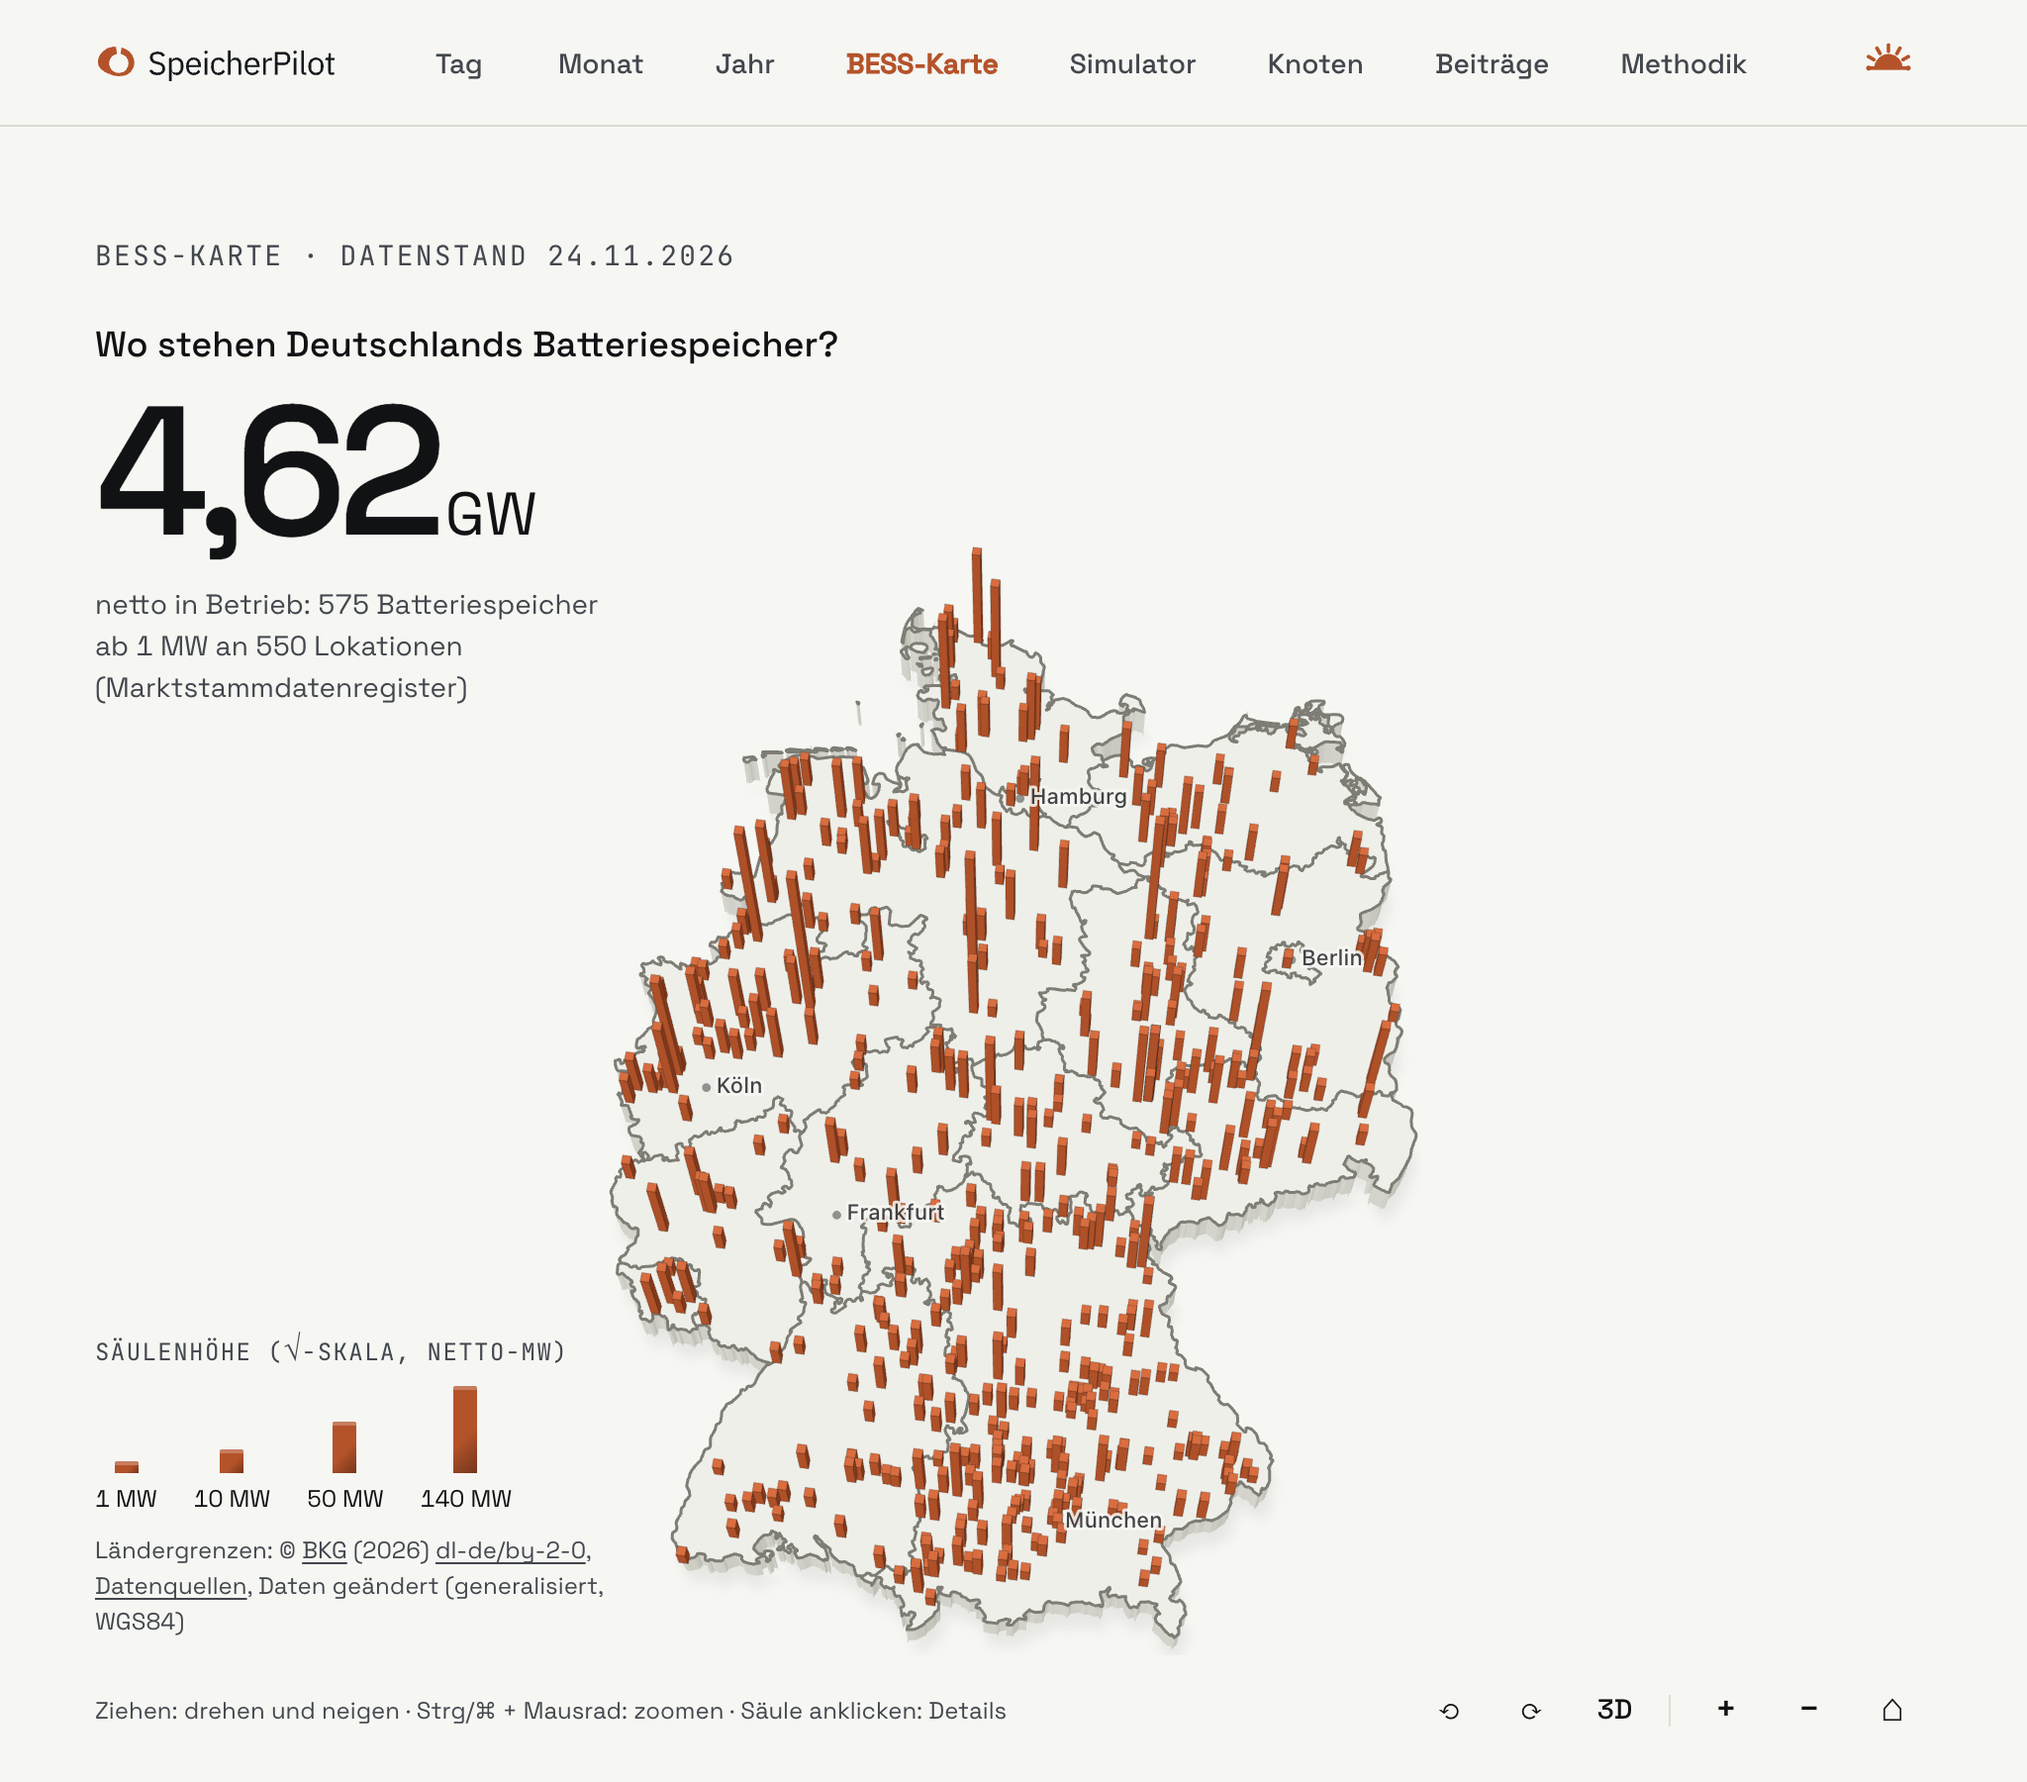
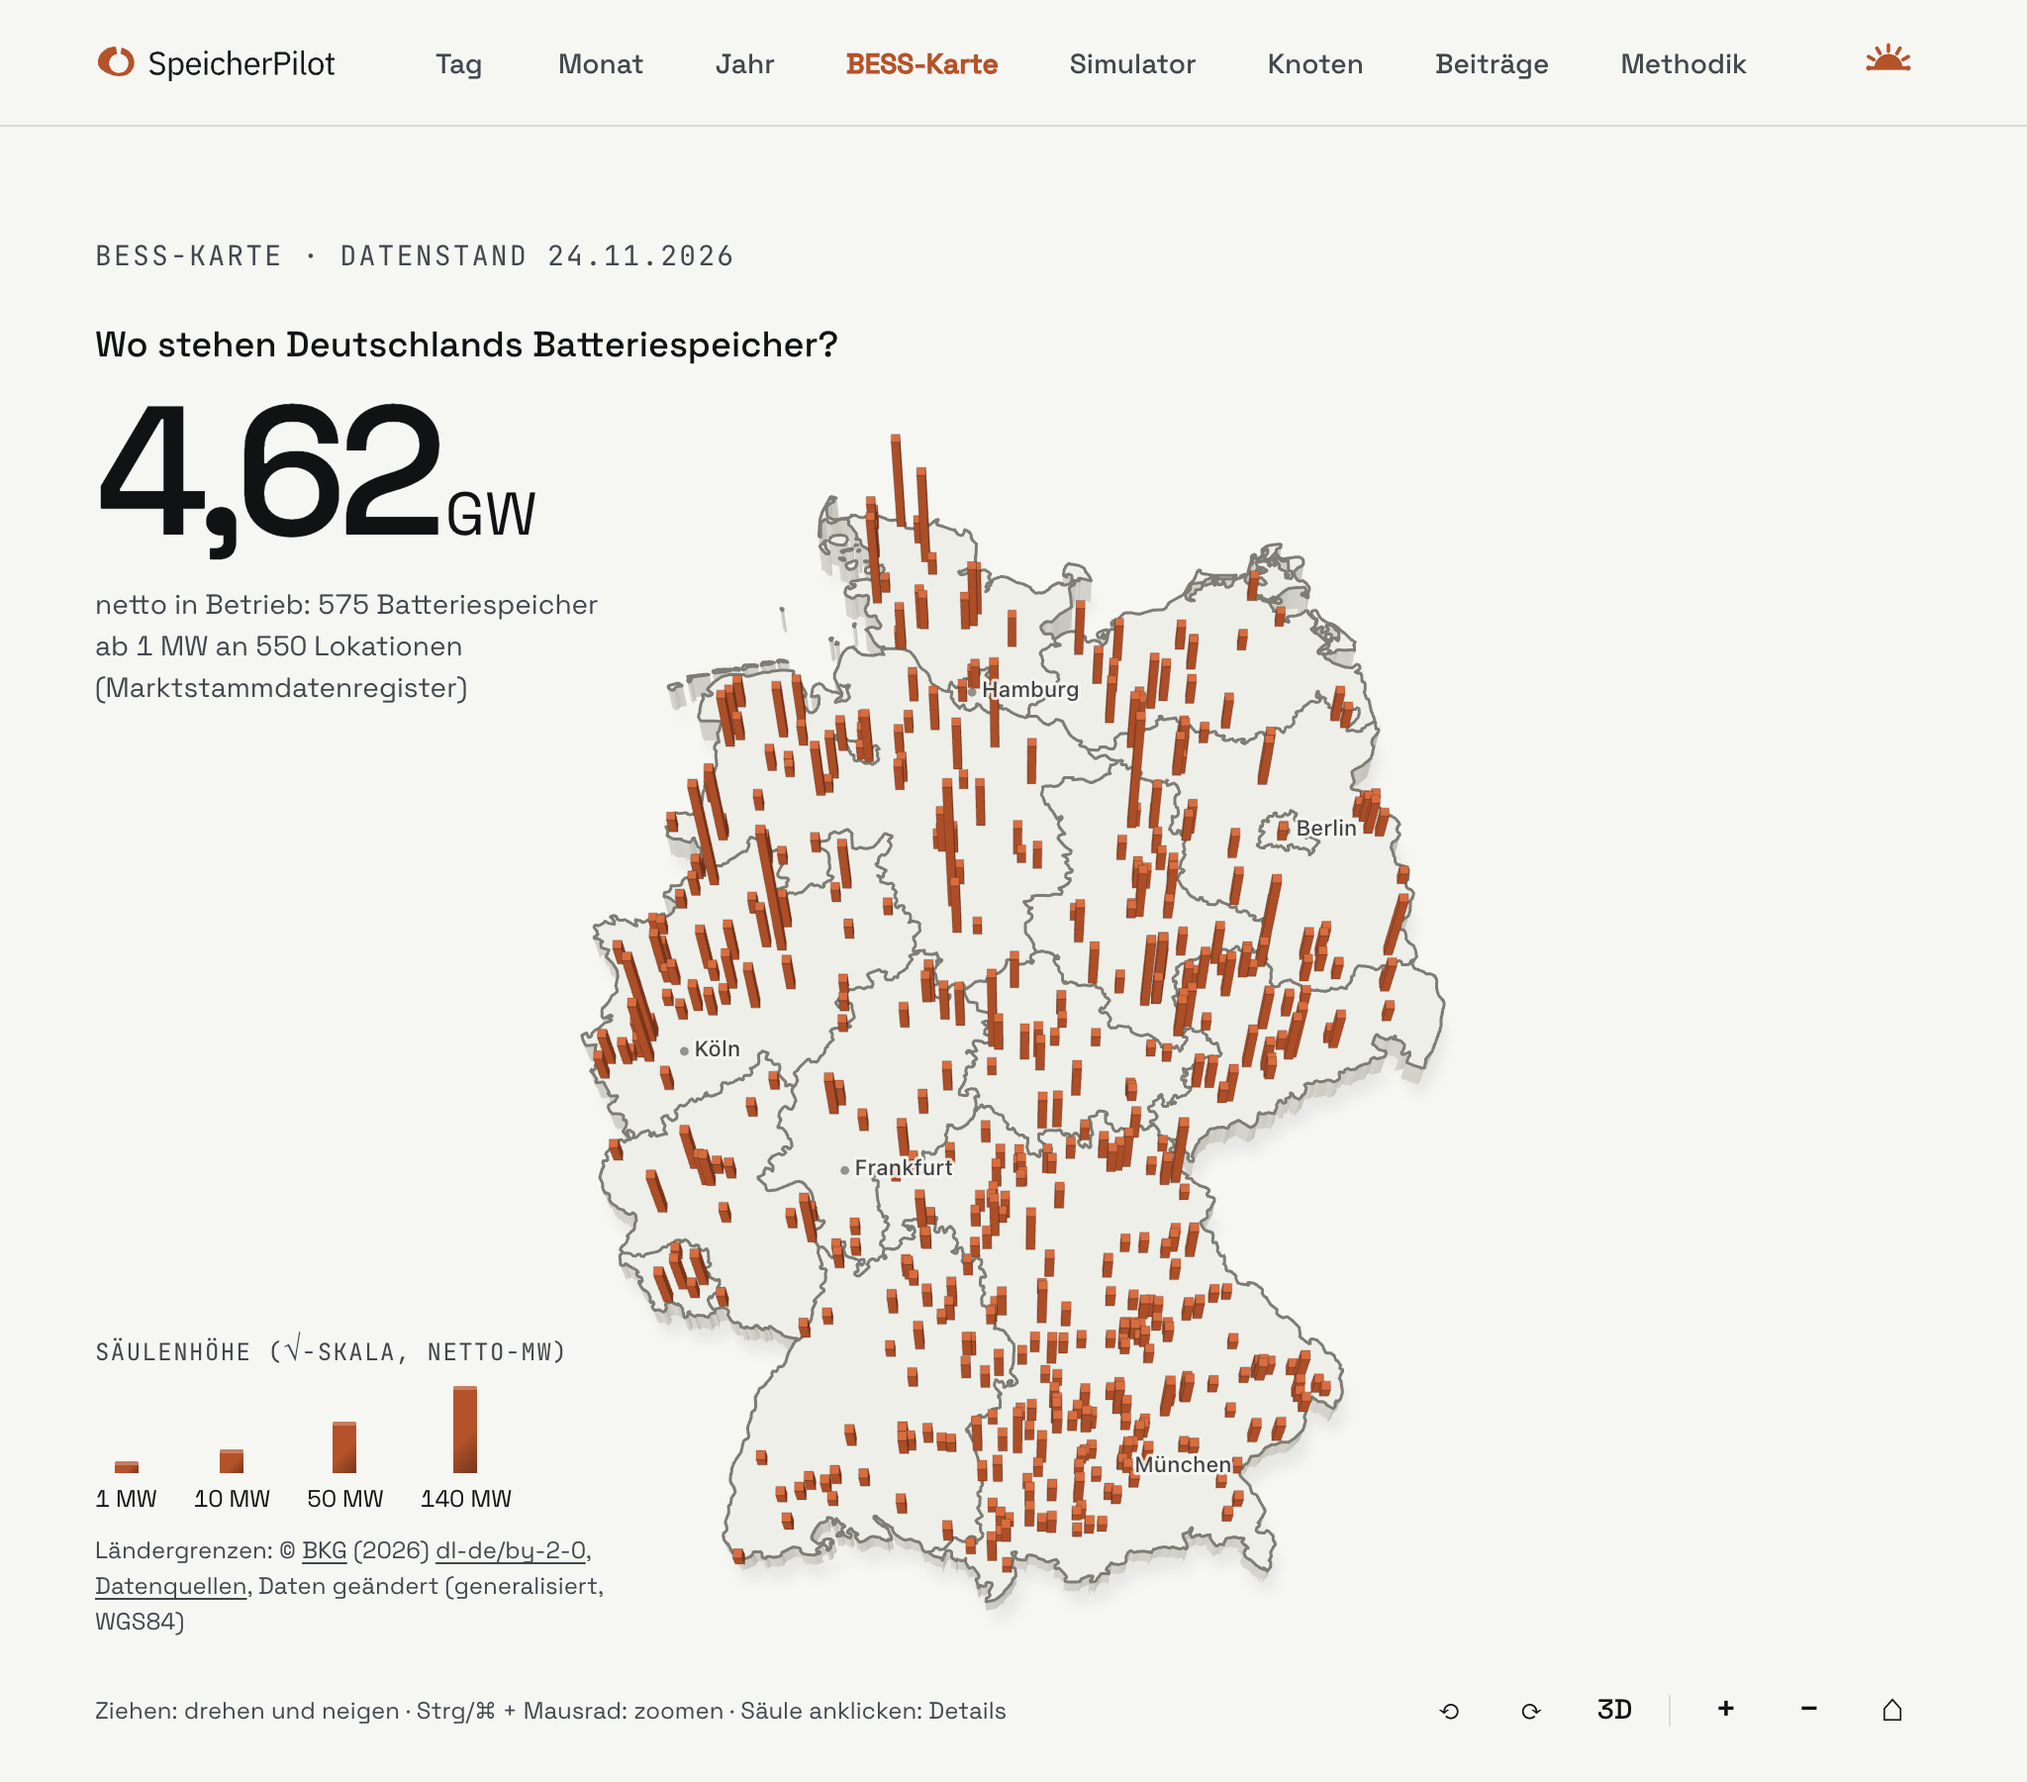
fix(netzbetreiber): Desktop-Startkamera Norden oben, mittig und etwas größer
DEFAULT_CAMERA_3D jetzt yaw 0, Neigung 18°, Zoom 1,08; Reset/⌂ führt auf dieselbe Ansicht. Mobil unverändert.

Changed region(s): [[0.2812, 0.2489, 0.7188, 0.9333]]

diff --git a/components/bess-netzbetreiber/BessKarteCanvas3d.tsx b/components/bess-netzbetreiber/BessKarteCanvas3d.tsx
@@ -12,6 +12,7 @@ import {
   type Camera3d,
   clampCamera3d,
   createProjectionParams3d,
+  DEFAULT_CAMERA_3D,
   geoToPlane,
   panCameraBy,
   type Point2d,
@@ -700,7 +701,7 @@ export function BessKarteCanvas3d({
       startCam: camera,
       moved: false,
       // Ohne Zoom dreht Ziehen die Karte; hineingezoomt verschiebt es sie (Shift dreht immer).
-      pan: camera.zoom > 1.05 && !e.shiftKey,
+      pan: camera.zoom > DEFAULT_CAMERA_3D.zoom + 0.05 && !e.shiftKey,
     };
   }
 
@@ -880,8 +881,8 @@ export function BessKarteCanvas3d({
         {overlay ? (
           <div
             className={styles.canvasHeroOverlay}
-            style={{ opacity: camera.zoom > 1.15 ? 0 : 1 }}
-            aria-hidden={camera.zoom > 1.15 ? true : undefined}
+            style={{ opacity: camera.zoom > DEFAULT_CAMERA_3D.zoom + 0.15 ? 0 : 1 }}
+            aria-hidden={camera.zoom > DEFAULT_CAMERA_3D.zoom + 0.15 ? true : undefined}
           >
             {overlay}
           </div>
@@ -994,7 +995,7 @@ export function BessKarteCanvas3d({
       ) : (
         <div className={styles.canvasDesktopBar}>
           <span className={`${styles.canvasHint} num`}>
-            {camera.zoom > 1.05
+            {camera.zoom > DEFAULT_CAMERA_3D.zoom + 0.05
               ? "Ziehen: verschieben · Shift + Ziehen: drehen · Säule anklicken: Details"
               : "Ziehen: drehen und neigen · Strg/⌘ + Mausrad: zoomen · Säule anklicken: Details"}
           </span>

diff --git a/lib/bessKarte3d/logic.test.ts b/lib/bessKarte3d/logic.test.ts
@@ -338,6 +338,6 @@ describe("mobile projection fit (390-Karte)", () => {
     expect(a.cx).toBeCloseTo(b.cx, 8);
     expect(a.cy).toBeCloseTo(b.cy, 8);
     expect(a.cy).toBeCloseTo(800 * 0.56, 8);
-    expect(a.scale).toBeCloseTo(Math.min(1280, 800) * 0.47, 8);
+    expect(a.scale).toBeCloseTo(Math.min(1280, 800) * 0.47 * pr.DEFAULT_CAMERA_3D.zoom, 8);
   });
 });

diff --git a/lib/bessKarte3d/projection3d.ts b/lib/bessKarte3d/projection3d.ts
@@ -22,11 +22,11 @@ export const ZOOM_MIN = 0.75;
 export const ZOOM_MAX = 14;
 
 export const DEFAULT_CAMERA_3D: Camera3d = {
-  yawDeg: -8,
-  tiltDeg: 22,
-  zoom: 1,
+  yawDeg: 0,
+  tiltDeg: 18,
+  zoom: 1.08,
   panX: 0,
-  panY: 0,
+  panY: -0.13,
 };
 
 /** Mobil: fast Draufsicht, Norden oben, Neigung unter 20°. */

diff --git a/PR_BESCHREIBUNG.md b/PR_BESCHREIBUNG.md
@@ -46,6 +46,14 @@
   - `netzbetreiber-1024-controls.png` (Desktop 1024 Fußzeile, Filterzeile & Abspielen)
   - `netzbetreiber-390-viewport.png` (Mobil 390 Viewport mit flacher Kreis-Karte)
   - `redispatch-1280.png` & `redispatch-1024.png` (aktiver EE-Redispatch-Toggle mit vollständig sichtbarer Legende inkl. GWh-Einheit und BMWE-Quelle)
+  - `start-1280-hell.png` & `start-1280-dunkel.png` (neue Desktop-Startkamera in Hell- und Dunkelmodus bei 1280 px)
+
+---
+
+## Zusatz Startkamera Desktop (`DEFAULT_CAMERA_3D`)
+- **Neue Desktop-Startkamera (`lib/bessKarte3d/projection3d.ts`):** `DEFAULT_CAMERA_3D = { yawDeg: 0, tiltDeg: 18, zoom: 1.08, panX: 0, panY: -0.13 }` (zuvor `yawDeg: -8, tiltDeg: 22, zoom: 1, panX: 0, panY: 0`). Norden liegt exakt oben, die Neigung ist moderater bei klar lesbaren 3D-Säulen, und Deutschland sitzt etwas größer sowie horizontal und vertikal mittig in der Bühne (oben 22 px über höchster SH-Säule, unten 23 px unter den Alpen).
+- **Reset & Zoom-Schwellen:** `onResetCamera` (`⌂`) nutzt weiterhin `DEFAULT_CAMERA_3D` und kehrt nach Drehen/Neigen/Zoomen bit-identisch zur Startansicht zurück (per Canvas-Hash verifiziert). Pan- und Overlay-Ausblend-Schwellen in `BessKarteCanvas3d.tsx` beziehen sich nun relativ auf `DEFAULT_CAMERA_3D.zoom`, sodass Ziehen in der Startansicht weiter dreht/neigt und `4,62 GW` sichtbar bleibt.
+- **Unverändert & Abnahme:** `MOBILE_CAMERA_3D` und Mobil (< 768 px) blieben unangetastet; `lib/bessKarte3d/logic.test.ts` prüft den Desktop-Scale nun gegen `DEFAULT_CAMERA_3D.zoom`. `npm test` (236/237 Suites, 1003 Tests; nur bekannter `launchAbnahme`-`EACCES`) und `npx next build` grün.
 
 ---
 
